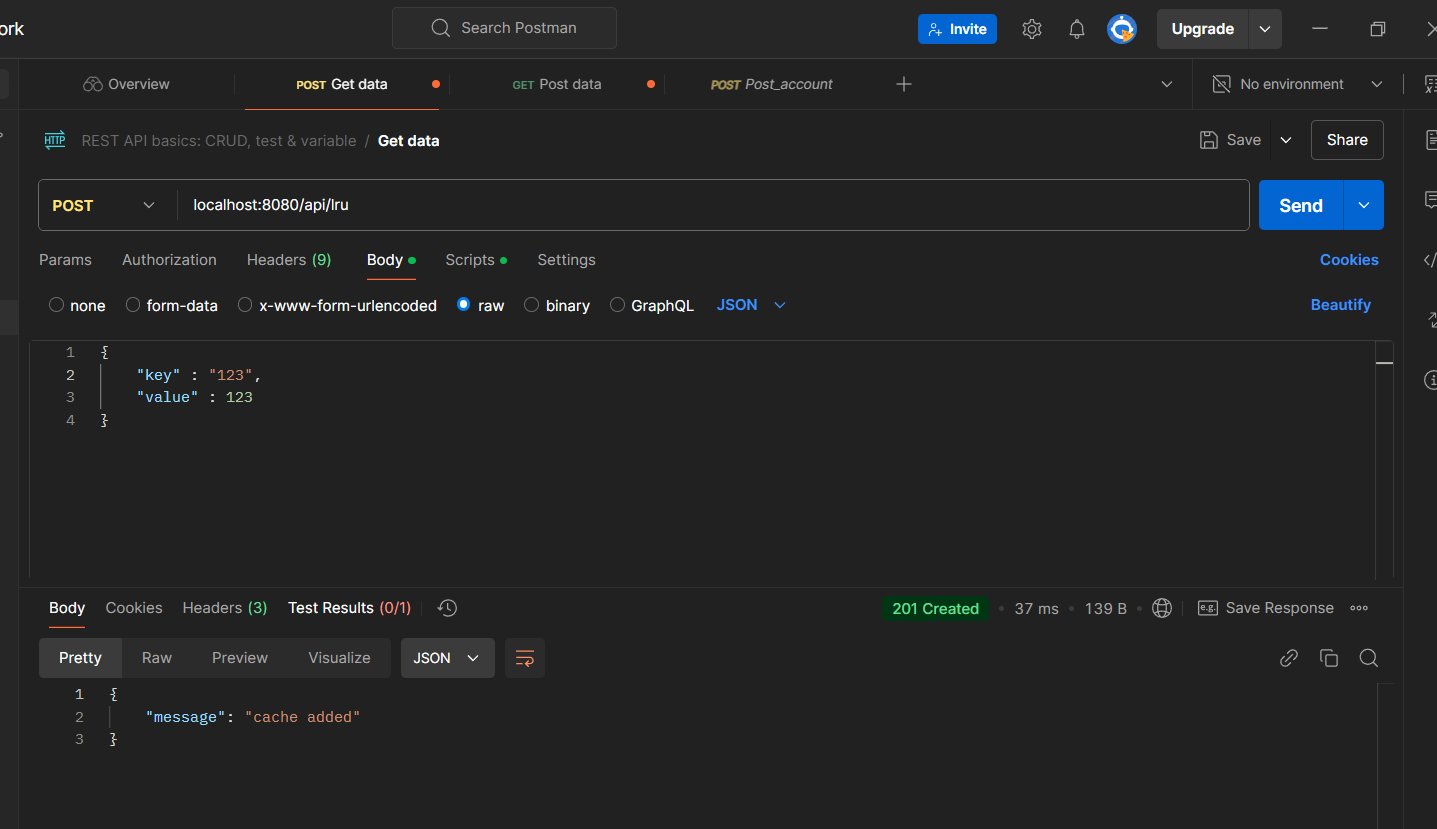
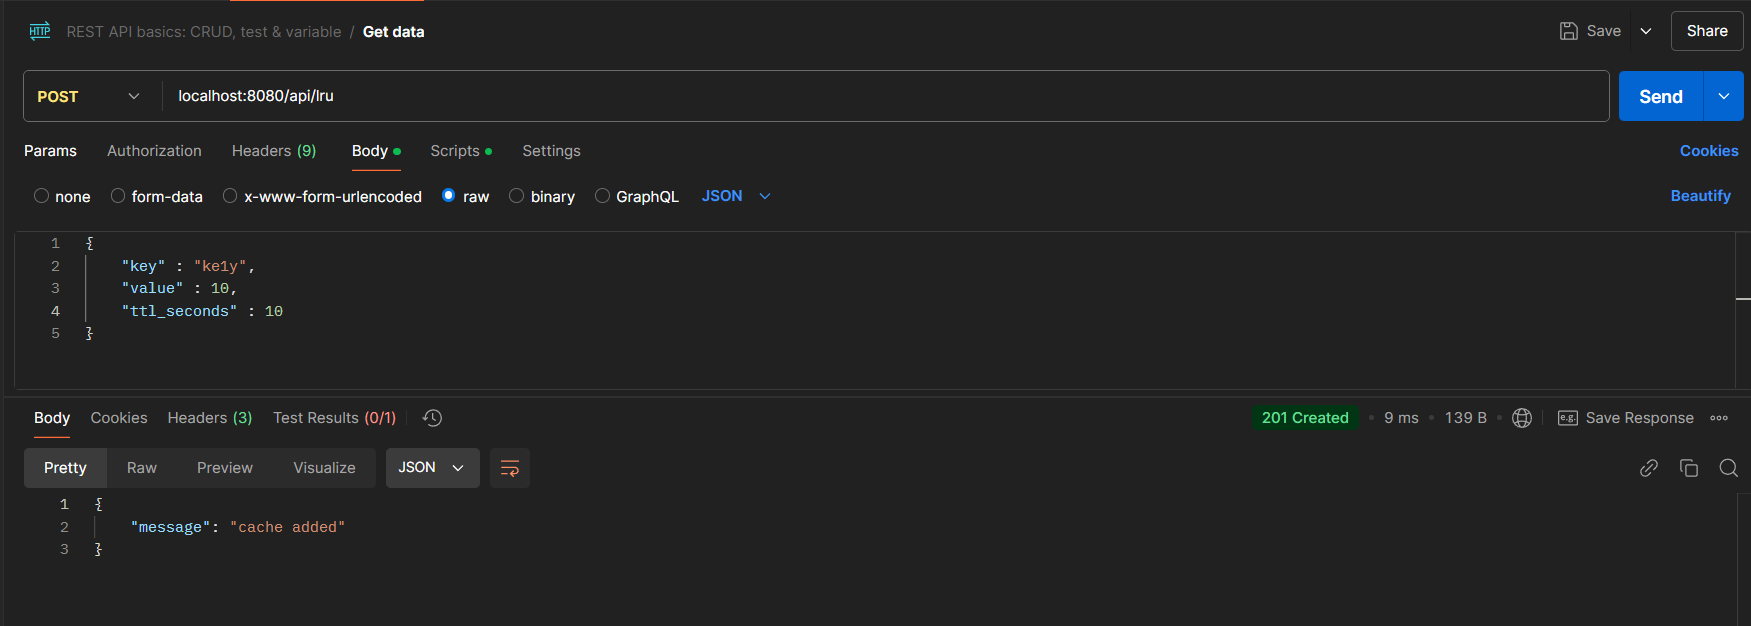
adding validation for value

diff --git a/internal/logger/logger.go b/internal/logger/logger.go
@@ -23,7 +23,7 @@ func SetupLogger(logLevel string) *slog.Logger {
 		log = setupPrettySlog() // Настройка для отладочного режима.
 	case INFO:
 		log = slog.New(
-			slog.NewJSONHandler(os.Stdout, &slog.HandlerOptions{Level: slog.LevelInfo}))
+			slog.NewTextHandler(os.Stdout, &slog.HandlerOptions{Level: slog.LevelInfo}))
 	case ERROR:
 		log = slog.New(
 			slog.NewTextHandler(os.Stdout, &slog.HandlerOptions{Level: slog.LevelError}))

diff --git a/internal/http-server/handler/lru_handler.go b/internal/http-server/handler/lru_handler.go
@@ -46,6 +46,14 @@ func (h *Handler) Put(w http.ResponseWriter, r *http.Request) {
 
 	h.Log.Debug("request body decoded", slog.Any("request", req))
 
+	if !isSimpleType(req.Value) {
+		h.Log.Debug("value must be a simple type")
+
+		jsonRespond(w, r, http.StatusBadRequest, Response{Error: "field value is invalid"})
+
+		return
+	}
+
 	// Проверяем валидность данных.
 	if err = validator.New().Struct(req); err != nil {
 

diff --git a/internal/http-server/handler/response.go b/internal/http-server/handler/response.go
@@ -37,3 +37,12 @@ func ValidationError(errs validator.ValidationErrors) Response {
 		Error: strings.Join(errMsgs, ", "),
 	}
 }
+
+func isSimpleType(value interface{}) bool {
+	switch value.(type) {
+	case string, float64, int, bool:
+		return true
+	default:
+		return false
+	}
+}

diff --git a/README.md b/README.md
@@ -171,8 +171,8 @@ Ctrl+C
 ### Покрытие тестами
 
 - Написал unit,mock,table driven тесты 
-![img_8.png](assets/img_8.png)
->51,8%
+![img_11.png](assets/img_11.png)
+>53,1%
 ## API Эндпоинты
 
 Сервис предоставляет следующие API-эндпоинты:
@@ -184,11 +184,16 @@ Ctrl+C
 - **Описание**: Добавляет в кэш элемент с ключом и TTL(default если не задано).
 
 - **Тело запроса**: JSON
+- **Параметры**:
+   - `key`: Имя ключа 
+  - `value`: Значение
+  - `ttl_seconds`: Время жизни кэша
 #### пример
 ```json
 {
-   "key": "123",
-   "value": 123
+   "key": "ke1y",
+   "value": 10,
+   "ttl_seconds": 10
 }
 
 ```
